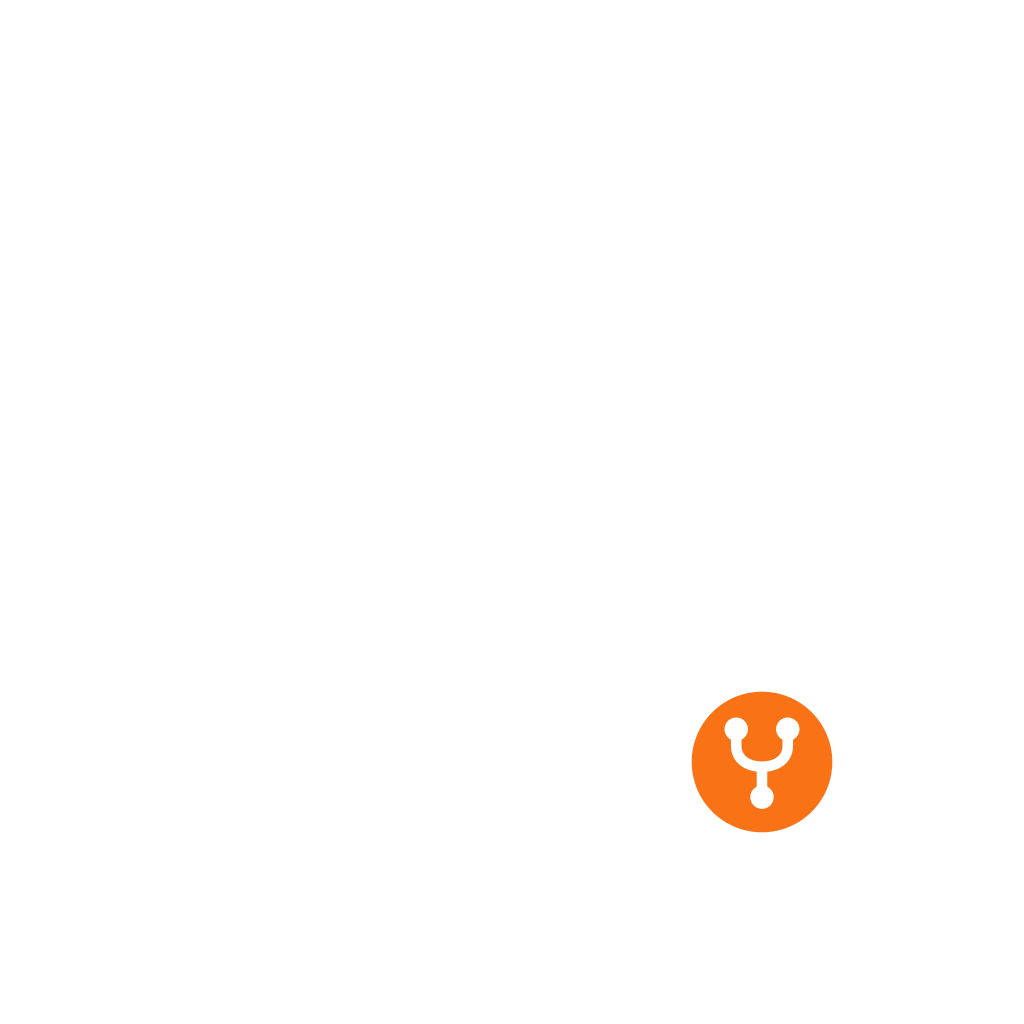
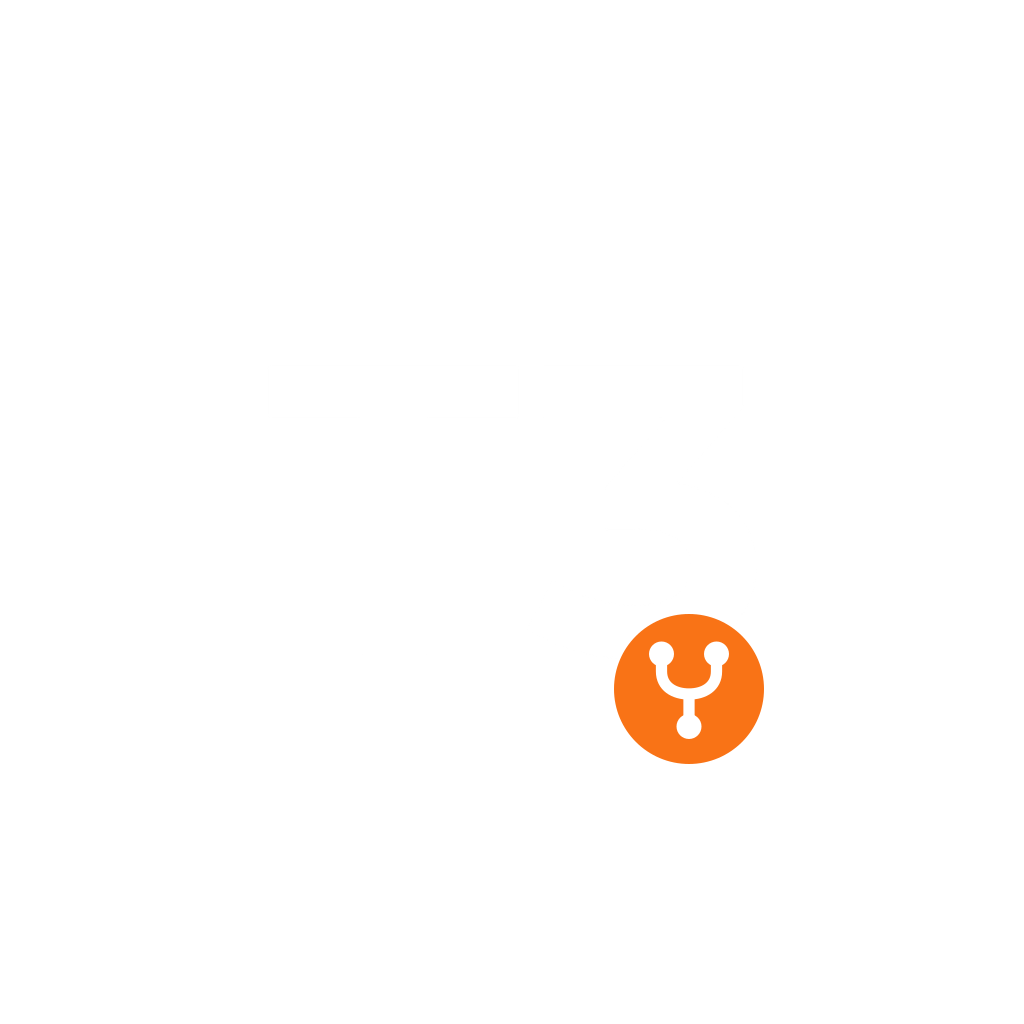
fix(fork): Android version, launcher badge, and CMA toggle width
Gradle re-reads app.config.ts when it bundles JS, so the fork version now
reaches that step too, and the update check reads the installed APK's
versionName. The adaptive-icon badge moves inside the circular launcher
mask, and the CMA Text/Chart toggle gets a width so it no longer
collapses on Android.

Changed region(s): [[0.5938, 0.5938, 0.8125, 0.8125]]

diff --git a/apps/mobile/src/fork/update/ForkUpdateCheck.tsx b/apps/mobile/src/fork/update/ForkUpdateCheck.tsx
@@ -1,3 +1,4 @@
+import * as Application from "expo-application";
 import Constants from "expo-constants";
 import { useGT } from "gt-react-native";
 import { useEffect, useRef, useState } from "react";
@@ -8,7 +9,8 @@ import { SettingsRow } from "../../features/settings/components/SettingsRow";
 import { fetchForkRelease, isForkUpdateAvailable, type ForkRelease } from "./forkUpdate.logic";
 
 const repository = Constants.expoConfig?.extra?.fork?.updateRepository;
-const currentVersion = () => Constants.expoConfig?.version ?? "0.0.0";
+// The installed APK's versionName; the bundled JS config can carry a different version.
+const currentVersion = () => Application.nativeApplicationVersion ?? "0.0.0";
 
 function showForkUpdate(gt: ReturnType<typeof useGT>, release: ForkRelease): void {
   Dialog.confirm({

diff --git a/apps/mobile/scripts/fork-icons.ts b/apps/mobile/scripts/fork-icons.ts
@@ -37,6 +37,7 @@ await badge(
   path.join(mobileRoot, "assets/android-icon-foreground.png"),
   path.join(outputDir, "android-adaptive-foreground.png"),
   1024,
-  150,
-  187,
+  160,
+  // Keeps the badge inside the circular launcher mask (radius ~33% of the canvas).
+  255,
 );

diff --git a/apps/mobile/src/fork/cma/CmaUsageAccounts.tsx b/apps/mobile/src/fork/cma/CmaUsageAccounts.tsx
@@ -343,6 +343,7 @@ export function CmaUsageAccountsSection({
           onSelect={setView}
           size="compact"
           role="tab"
+          className="w-36"
         />
       </View>
       {showRefreshHint ? (
